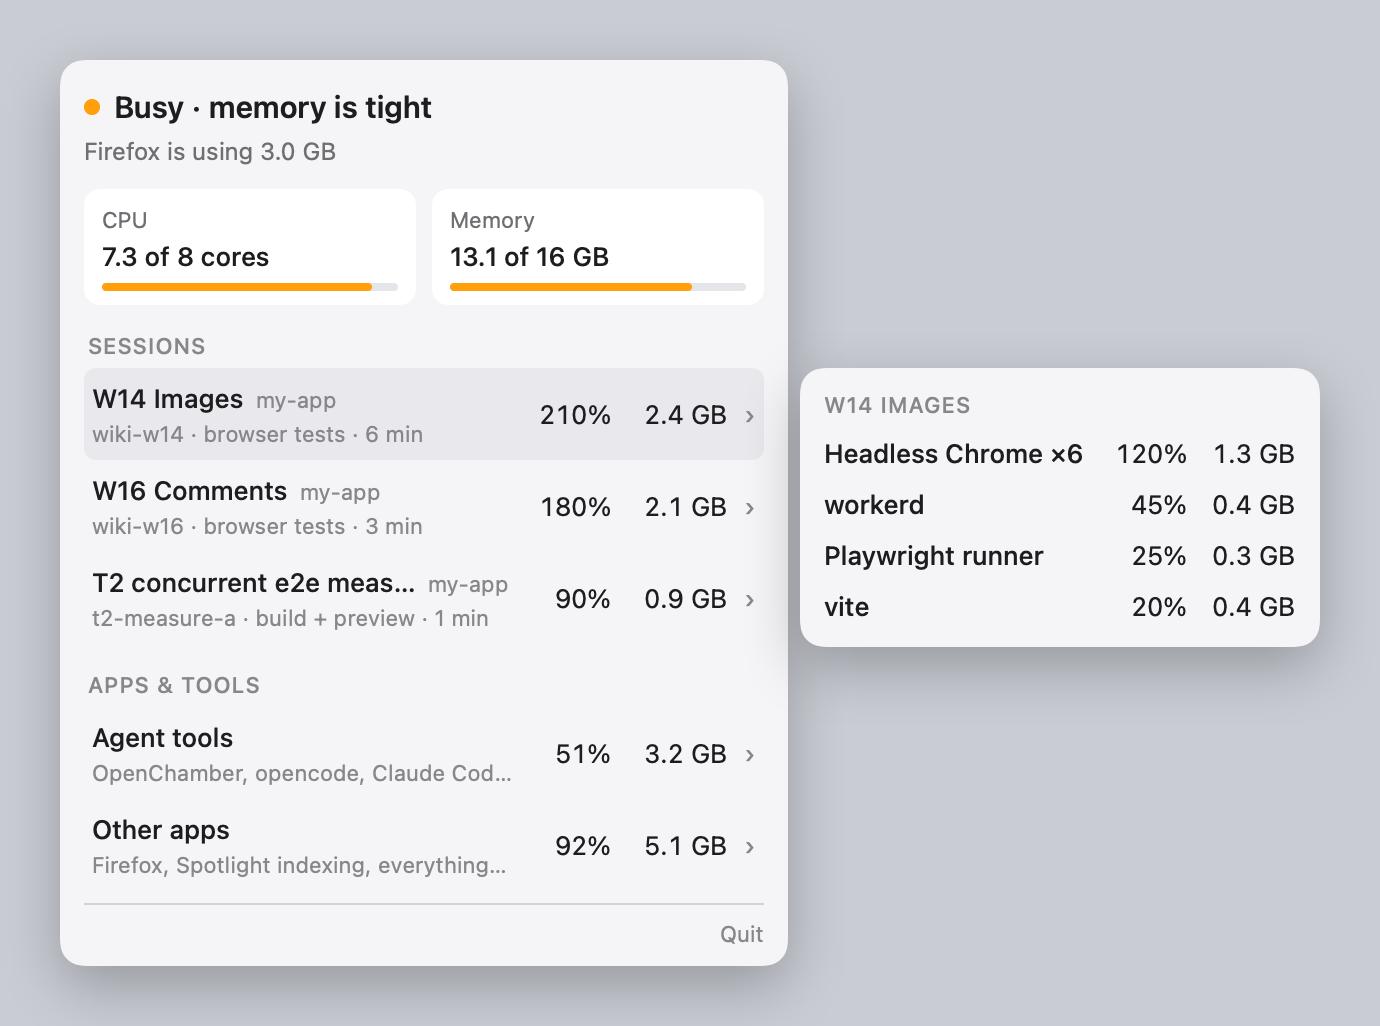
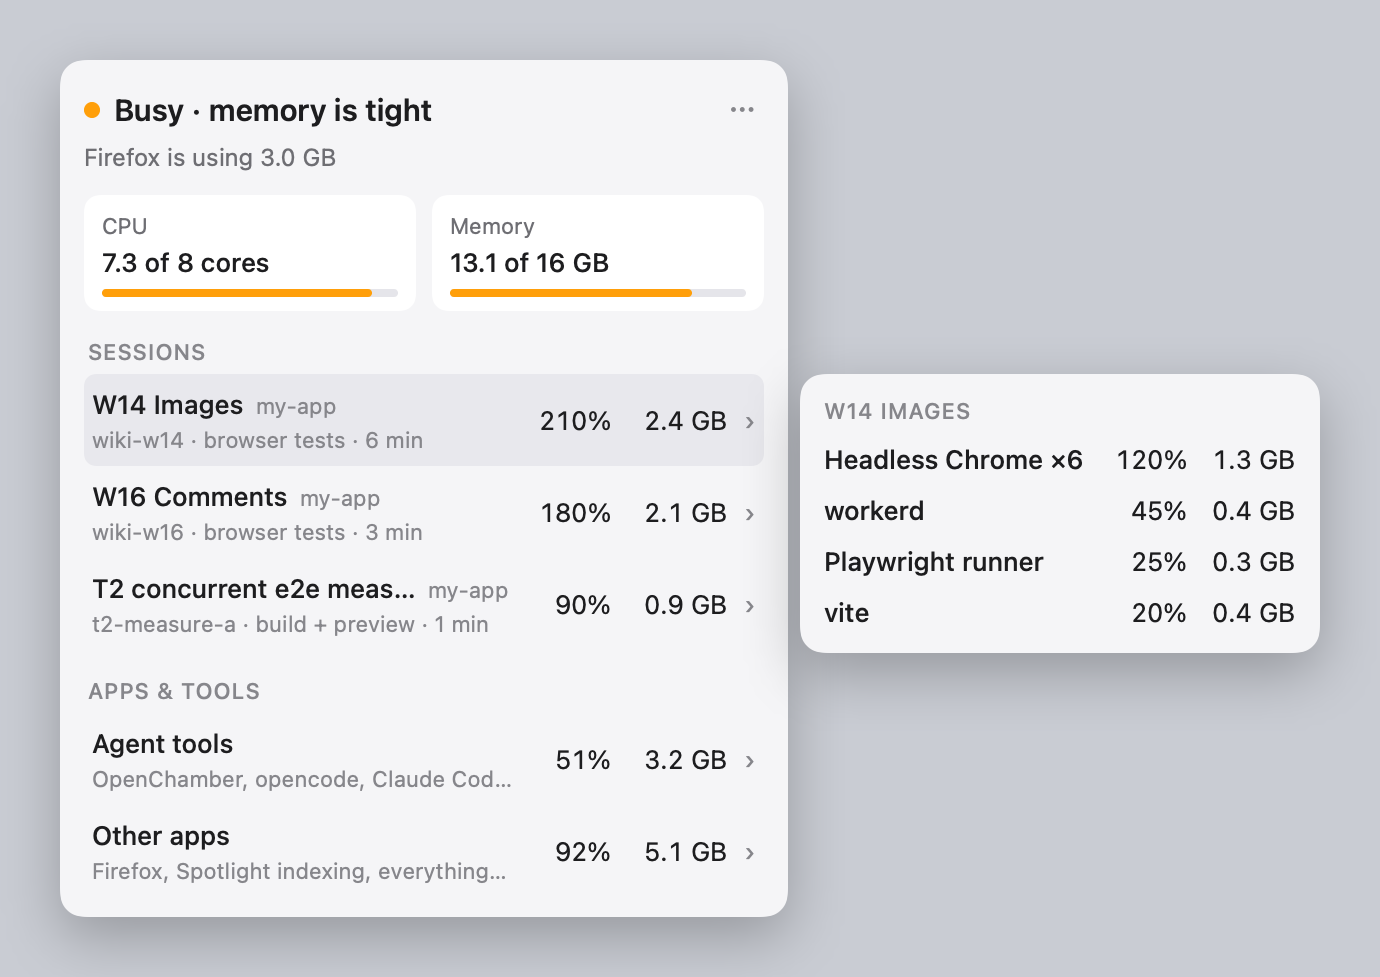
feat(app): "…" menu in the header with Open at Login and Quit, no footer

diff --git a/docs/mockup.html b/docs/mockup.html
@@ -5,4 +5,4 @@
      gauge values, section headings and hover-panel names, semibold (600) headline, 12px above headings. -->
 <html><head><meta charset="utf-8"><title>Agent Load mockup v6</title><style>body{background:#c9ccd3;padding:30px}.wrap{display:flex;gap:6px;align-items:flex-start;flex-wrap:wrap;font-family:-apple-system,BlinkMacSystemFont,sans-serif;font-size:13px;line-height:1.5;color:#1d1d1f}.menu{width:340px;background:#f5f5f7;border-radius:12px;box-shadow:0 10px 30px rgba(0,0,0,.25);padding:12px 12px 8px}.side{width:240px;margin-top:190px;background:#f5f5f7;border-radius:12px;box-shadow:0 10px 30px rgba(0,0,0,.25);padding:10px 10px 8px}.state{font-weight:600;font-size:15px;display:flex;gap:7px;align-items:center}.dot{width:8px;height:8px;border-radius:50%;background:#ff9f0a;display:inline-block}.verdict{font-size:12px;color:#6e6e73;margin:2px 0 10px}.gs{display:grid;grid-template-columns:1fr 1fr;gap:8px;margin-bottom:10px}.gg{background:#fff;border-radius:8px;padding:7px 9px}.k{font-size:11px;color:#6e6e73}.v{font-weight:500}.track{height:4px;background:#e5e5ea;border-radius:2px;margin-top:4px}.track b{display:block;height:4px;border-radius:2px;background:#ff9f0a}.sec{font-size:11px;color:#86868b;font-weight:500;text-transform:uppercase;letter-spacing:.04em;margin:12px 2px 3px}.row{display:grid;grid-template-columns:minmax(0,1fr) 42px 52px 8px;gap:6px;padding:5px 4px;border-radius:6px;align-items:center}.row.on{background:#e8e8ed}.nm{font-weight:500;min-width:0}.l1{display:flex;align-items:baseline;gap:6px;min-width:0}.l1 .t{white-space:nowrap;overflow:hidden;text-overflow:ellipsis;min-width:0;flex:0 1 auto}.l1 .pj{font-weight:400;color:#86868b;font-size:11px;white-space:nowrap;flex:0 0 auto}.sub{display:block;font-weight:400;color:#86868b;font-size:11px;white-space:nowrap;overflow:hidden;text-overflow:ellipsis}.n{text-align:right;font-variant-numeric:tabular-nums}.c{color:#86868b;text-align:right}.ft{border-top:1px solid #d2d2d7;margin-top:6px;padding-top:6px;font-size:11px;color:#86868b;display:flex;justify-content:space-between}.p{display:grid;grid-template-columns:1fr 40px 48px;gap:6px;padding:3px 2px}.p>div:first-child{font-weight:500}.bar{width:340px;height:26px;border-radius:7px;background:#2f3137;display:flex;align-items:center;justify-content:flex-end;gap:12px;padding:0 10px;color:#f2f2f2;font-size:13px;margin-bottom:10px}.hl{background:rgba(255,255,255,.18);border-radius:5px;padding:2px 6px;display:flex;align-items:center;gap:5px}</style></head><body>
 <div class='bar'><span>Wi-Fi</span><span class='hl'><span class='dot'></span>3</span><span>20:17</span></div>
-<div class='wrap'><div class='menu'><div class='state'><span class='dot'></span>Busy · memory is tight</div><div class='verdict'>Wait before starting another session</div><div class='gs'><div class='gg'><div class='k'>CPU</div><div class='v'>7.3 of 8 cores</div><div class='track'><b style='width:88%'></b></div></div><div class='gg'><div class='k'>Memory</div><div class='v'>13.1 of 16 GB</div><div class='track'><b style='width:82%'></b></div></div></div><div class='sec'>Sessions</div><div class='row on'><div class='nm'><div class='l1'><span class='t'>W14 Images</span><span class='pj'>my-app</span></div><span class='sub'>wiki-w14 · browser tests · 6 min</span></div><div class='n'>210%</div><div class='n'>2.4 GB</div><div class='c'>›</div></div><div class='row'><div class='nm'><div class='l1'><span class='t'>W16 Comments</span><span class='pj'>my-app</span></div><span class='sub'>wiki-w16 · browser tests · 3 min</span></div><div class='n'>180%</div><div class='n'>2.1 GB</div><div class='c'>›</div></div><div class='row'><div class='nm'><div class='l1'><span class='t'>T2 concurrent e2e measurement</span><span class='pj'>my-app</span></div><span class='sub'>t2-measure-a · build + preview · 1 min</span></div><div class='n'>90%</div><div class='n'>0.9 GB</div><div class='c'>›</div></div><div class='sec'>Apps &amp; tools</div><div class='row'><div class='nm'>Agent tools<span class='sub'>OpenChamber, opencode, Claude Code ×9</span></div><div class='n'>51%</div><div class='n'>3.2 GB</div><div class='c'>›</div></div><div class='row'><div class='nm'>Other apps<span class='sub'>Firefox, Spotlight indexing, everything else</span></div><div class='n'>92%</div><div class='n'>5.1 GB</div><div class='c'>›</div></div><div class='ft'><span></span><span>Quit</span></div></div><div class='side'><div class='sec' style='margin-top:0'>On hover · W14 Images</div><div class='p'><div>Headless Chrome ×6</div><div class='n'>120%</div><div class='n'>1.3 GB</div></div><div class='p'><div>workerd</div><div class='n'>45%</div><div class='n'>0.4 GB</div></div><div class='p'><div>Playwright runner</div><div class='n'>25%</div><div class='n'>0.3 GB</div></div><div class='p'><div>vite</div><div class='n'>20%</div><div class='n'>0.4 GB</div></div></div></div></body></html>
+<div class='wrap'><div class='menu'><div class='state'><span class='dot'></span>Busy · memory is tight<span style='margin-left:auto;color:#86868b;letter-spacing:1px'>•••</span></div><div class='verdict'>Wait before starting another session</div><div class='gs'><div class='gg'><div class='k'>CPU</div><div class='v'>7.3 of 8 cores</div><div class='track'><b style='width:88%'></b></div></div><div class='gg'><div class='k'>Memory</div><div class='v'>13.1 of 16 GB</div><div class='track'><b style='width:82%'></b></div></div></div><div class='sec'>Sessions</div><div class='row on'><div class='nm'><div class='l1'><span class='t'>W14 Images</span><span class='pj'>my-app</span></div><span class='sub'>wiki-w14 · browser tests · 6 min</span></div><div class='n'>210%</div><div class='n'>2.4 GB</div><div class='c'>›</div></div><div class='row'><div class='nm'><div class='l1'><span class='t'>W16 Comments</span><span class='pj'>my-app</span></div><span class='sub'>wiki-w16 · browser tests · 3 min</span></div><div class='n'>180%</div><div class='n'>2.1 GB</div><div class='c'>›</div></div><div class='row'><div class='nm'><div class='l1'><span class='t'>T2 concurrent e2e measurement</span><span class='pj'>my-app</span></div><span class='sub'>t2-measure-a · build + preview · 1 min</span></div><div class='n'>90%</div><div class='n'>0.9 GB</div><div class='c'>›</div></div><div class='sec'>Apps &amp; tools</div><div class='row'><div class='nm'>Agent tools<span class='sub'>OpenChamber, opencode, Claude Code ×9</span></div><div class='n'>51%</div><div class='n'>3.2 GB</div><div class='c'>›</div></div><div class='row'><div class='nm'>Other apps<span class='sub'>Firefox, Spotlight indexing, everything else</span></div><div class='n'>92%</div><div class='n'>5.1 GB</div><div class='c'>›</div></div></div><div class='side'><div class='sec' style='margin-top:0'>On hover · W14 Images</div><div class='p'><div>Headless Chrome ×6</div><div class='n'>120%</div><div class='n'>1.3 GB</div></div><div class='p'><div>workerd</div><div class='n'>45%</div><div class='n'>0.4 GB</div></div><div class='p'><div>Playwright runner</div><div class='n'>25%</div><div class='n'>0.3 GB</div></div><div class='p'><div>vite</div><div class='n'>20%</div><div class='n'>0.4 GB</div></div></div></div></body></html>

diff --git a/Sources/AgentLoad/Views.swift b/Sources/AgentLoad/Views.swift
@@ -87,6 +87,8 @@ final class AppModel: ObservableObject {
     var onHoverChange: ((String?) -> Void)?
     var onOpenFolder: ((SessionRow) -> Void)?
     var onQuit: (() -> Void)?
+    /// "…" button in the header: shows the small menu (Open at Login, Quit).
+    var onMore: (() -> Void)?
 }
 
 struct RowFrameKey: PreferenceKey {
@@ -115,7 +117,7 @@ struct DropdownView: View {
         }
         // CSS `width: 340px` excludes padding (content-box), so the card is 340 + 2×12 = 364 pt wide.
         .frame(width: 340, alignment: .leading)
-        .padding(.top, 12).padding(.horizontal, 12).padding(.bottom, 8)
+        .padding(.top, 12).padding(.horizontal, 12).padding(.bottom, 10)
         .background(RoundedRectangle(cornerRadius: 12, style: .continuous).fill(p.background))
         .coordinateSpace(name: "dropdown")
         .onPreferenceChange(RowFrameKey.self) { model.rowFrames = $0 }
@@ -123,9 +125,12 @@ struct DropdownView: View {
 
     @ViewBuilder private func content(_ s: Snapshot, _ p: Palette) -> some View {
         // 1. Headline + verdict
+        // The "…" button top-right replaces the old footer (owner chose option C, 2026-11-14).
         HStack(spacing: 7) {
             Circle().fill(Palette.status(s.level)).frame(width: 8, height: 8)
             Text(s.headline).font(sf(15, 600)).foregroundStyle(p.text).lineLimit(1)
+            Spacer(minLength: 6)
+            MoreButton(p: p) { model.onMore?() }
         }
         .lineBox(15)
         Text(s.verdict).font(sf(12)).foregroundStyle(p.grey1).lineBox(12)
@@ -166,19 +171,7 @@ struct DropdownView: View {
                 .hoverable(id: g.id, model: model)
         }
 
-        // 6. Footer
-        VStack(spacing: 0) {
-            p.divider.frame(height: 1)
-            // "Updated N s ago" removed (owner, 2026-11-14): only Quit, on the right.
-            HStack {
-                Spacer()
-                Text("Quit").contentShape(Rectangle()).onTapGesture { model.onQuit?() }
-            }
-            .font(sf(11)).foregroundStyle(p.grey2)
-            .lineBox(11)
-            .padding(.top, 6)
-        }
-        .padding(.top, 6)
+        // No footer: Quit lives in the "…" menu in the header.
     }
 
 }
@@ -378,5 +371,23 @@ struct SidePanelView: View {
     static func shownKinds(_ kinds: [KindGroup]) -> [KindGroup] {
         let significant = kinds.filter(isWorthShowing)
         return significant.isEmpty ? Array(kinds.prefix(3)) : significant
+    }
+}
+
+/// Small grey "…" button (22 × 22) in the header; highlighted on hover like a toolbar button.
+struct MoreButton: View {
+    let p: Palette
+    let action: () -> Void
+    @State private var hover = false
+    var body: some View {
+        Image(systemName: "ellipsis")
+            .font(.system(size: 12, weight: .semibold))
+            .foregroundStyle(hover ? p.text : p.grey2)
+            .frame(width: 22, height: 22)
+            .background(RoundedRectangle(cornerRadius: 6, style: .continuous).fill(hover ? p.rowHover : Color.clear))
+            .contentShape(Rectangle())
+            .onHover { hover = $0 }
+            .onTapGesture(perform: action)
+            .help("More")
     }
 }

diff --git a/Sources/AgentLoad/AppDelegate.swift b/Sources/AgentLoad/AppDelegate.swift
@@ -1,5 +1,6 @@
 import AppKit
 import SwiftUI
+import ServiceManagement
 import AgentLoadCore
 
 /// Borderless panel that can take key focus (needed for hover tracking and closing on
@@ -9,6 +10,13 @@ final class KeyPanel: NSPanel {
     override var canBecomeKey: Bool { true }
     override var canBecomeMain: Bool { false }
     override func cancelOperation(_ sender: Any?) { onCancel?() }   // Esc closes
+    /// ⌘Q quits while the dropdown is open (the app has no main menu as a menu-bar-only app).
+    override func performKeyEquivalent(with event: NSEvent) -> Bool {
+        if event.modifierFlags.contains(.command), event.charactersIgnoringModifiers == "q" {
+            NSApp.terminate(nil); return true
+        }
+        return super.performKeyEquivalent(with: event)
+    }
 }
 
 /// The menu bar app.
@@ -62,6 +70,7 @@ final class AppDelegate: NSObject, NSApplicationDelegate {
             NSWorkspace.shared.activateFileViewerSelecting([URL(fileURLWithPath: row.folderPath)])
         }
         model.onQuit = { NSApp.terminate(nil) }
+        model.onMore = { [weak self] in self?.showMoreMenu() }
 
         refresh()
         schedule(interval: Self.closedInterval)
@@ -264,4 +273,33 @@ final class AppDelegate: NSObject, NSApplicationDelegate {
             }
         }
     }
+
+    // MARK: - "…" menu
+
+    /// Native menu at the mouse: "Open at Login" (checkmark = registered) and "Quit Agent Load ⌘Q".
+    /// Open at Login uses SMAppService.mainApp, so it registers whichever copy is running
+    /// (normally /Applications/Agent Load.app).
+    private func showMoreMenu() {
+        let menu = NSMenu()
+        let login = NSMenuItem(title: "Open at Login", action: #selector(toggleOpenAtLogin), keyEquivalent: "")
+        login.target = self
+        login.state = SMAppService.mainApp.status == .enabled ? .on : .off
+        menu.addItem(login)
+        menu.addItem(.separator())
+        let quit = NSMenuItem(title: "Quit Agent Load", action: #selector(quitApp), keyEquivalent: "q")
+        quit.target = self
+        menu.addItem(quit)
+        menu.popUp(positioning: nil, at: NSEvent.mouseLocation, in: nil)
+    }
+
+    @objc private func toggleOpenAtLogin() {
+        do {
+            if SMAppService.mainApp.status == .enabled { try SMAppService.mainApp.unregister() }
+            else { try SMAppService.mainApp.register() }
+        } catch {
+            NSLog("AgentLoad: Open at Login failed: \(error.localizedDescription)")
+        }
+    }
+
+    @objc private func quitApp() { NSApp.terminate(nil) }
 }

diff --git a/README.md b/README.md
@@ -30,15 +30,14 @@ scripts/install.sh              # builds it, installs it in /Applications and st
 ```
 
 The dot appears in the menu bar. Run `scripts/install.sh` again after pulling changes to
-update the installed app. To start it at login, add **Agent Load** under
-**System Settings → General → Login Items & Extensions → Open at Login**.
+update the installed app. To start it at login, choose **… → Open at Login** in the dropdown.
 
 ## How to use it
 
 1. Glance at the dot: the number is how many agent sessions have unfinished work.
 2. Click it for the breakdown: status, CPU and memory gauges, one row per session, then
    **Agent tools** (OpenChamber, opencode, Claude Code) and **Other apps**.
-3. Hover any row for its details, and click **Quit** to close the app.
+3. Hover any row for its details. The **…** button top-right has **Open at Login** and **Quit**.
 
 CPU is shown per core: 100% is one full core, so 8 cores give 800%. The CPU gauge shows
 demand over the last minute, including programs waiting for a turn, so it can exceed the

diff --git a/docs/design.md b/docs/design.md
@@ -92,7 +92,7 @@ redesign. The owner reviews the look carefully.
      memory of the unlisted processes themselves (footprint; resident size when a
      process's footprint is more than 1 GB above its resident size, i.e. mostly swapped
      out, such as a virtual machine).
-5. Footer: "Quit" on the right (the "Updated N s ago" timer was removed, owner 2026-11-14).
+5. No footer. A grey "…" button top-right in the header opens a small native menu: "Open at Login" (checkmark) and "Quit Agent Load ⌘Q" (owner chose this, 2026-11-14; replaces the footer Quit and the "Updated N s ago" timer).
 
 ## Attribution (how a program is assigned to a session)
 
